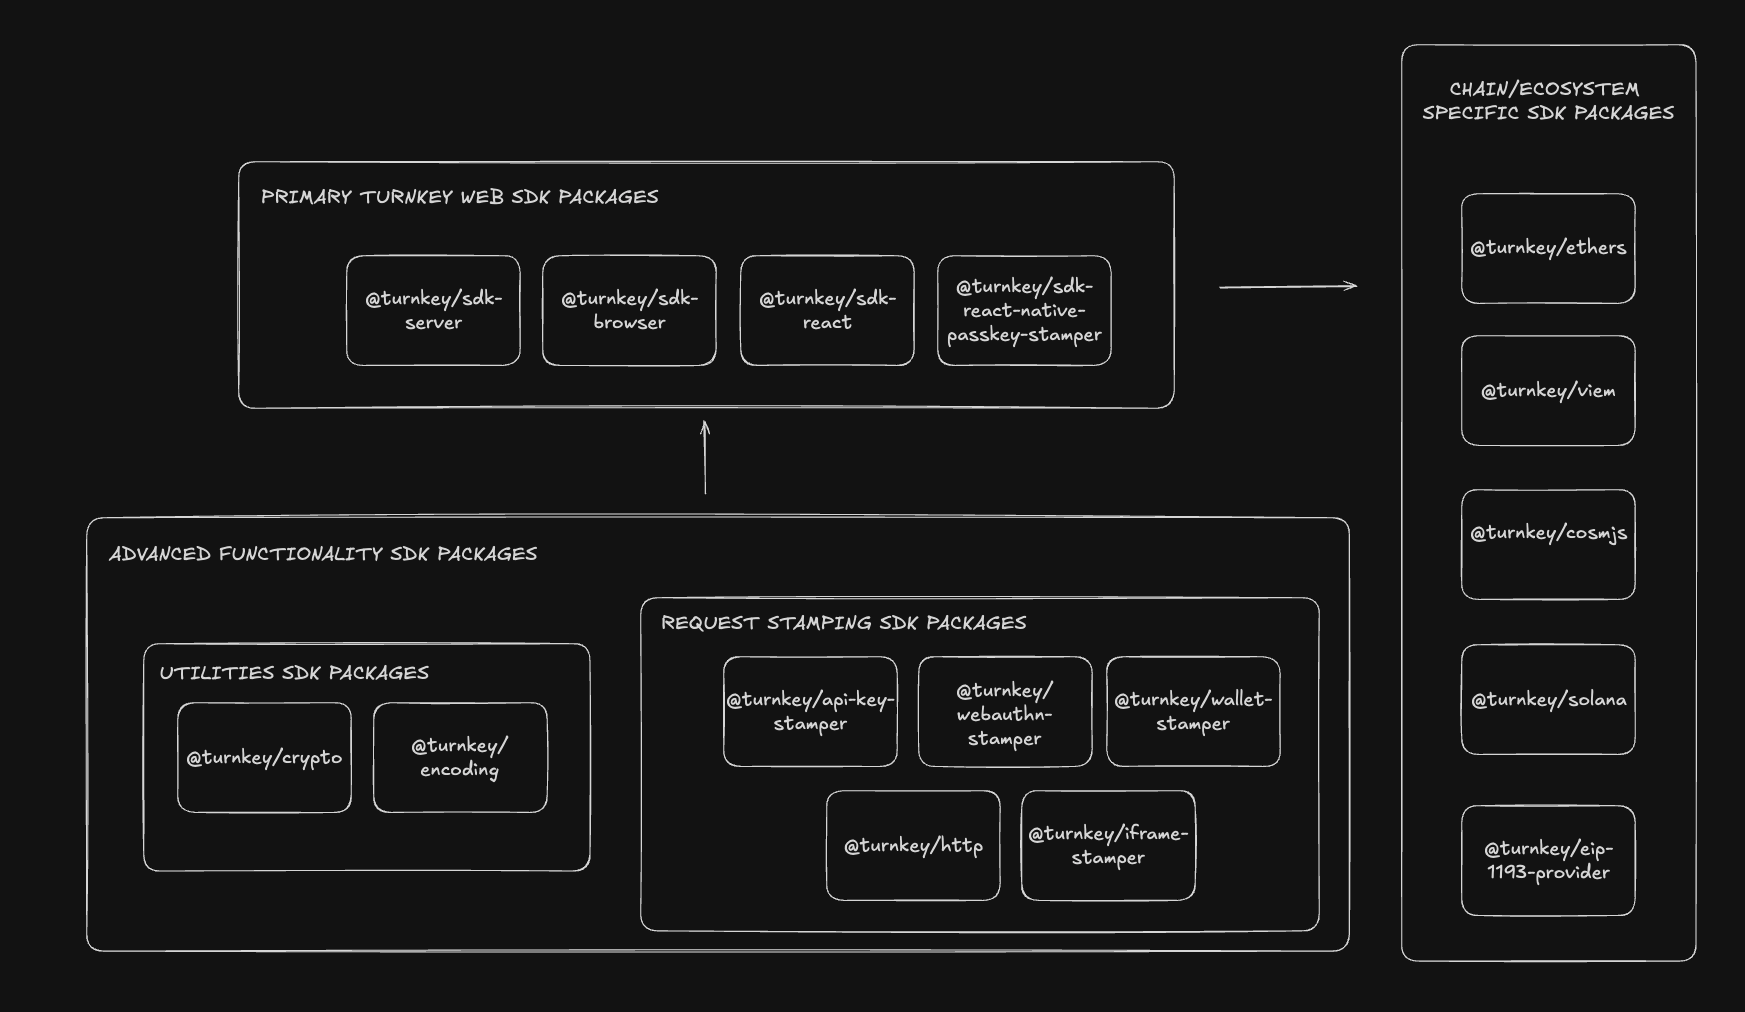
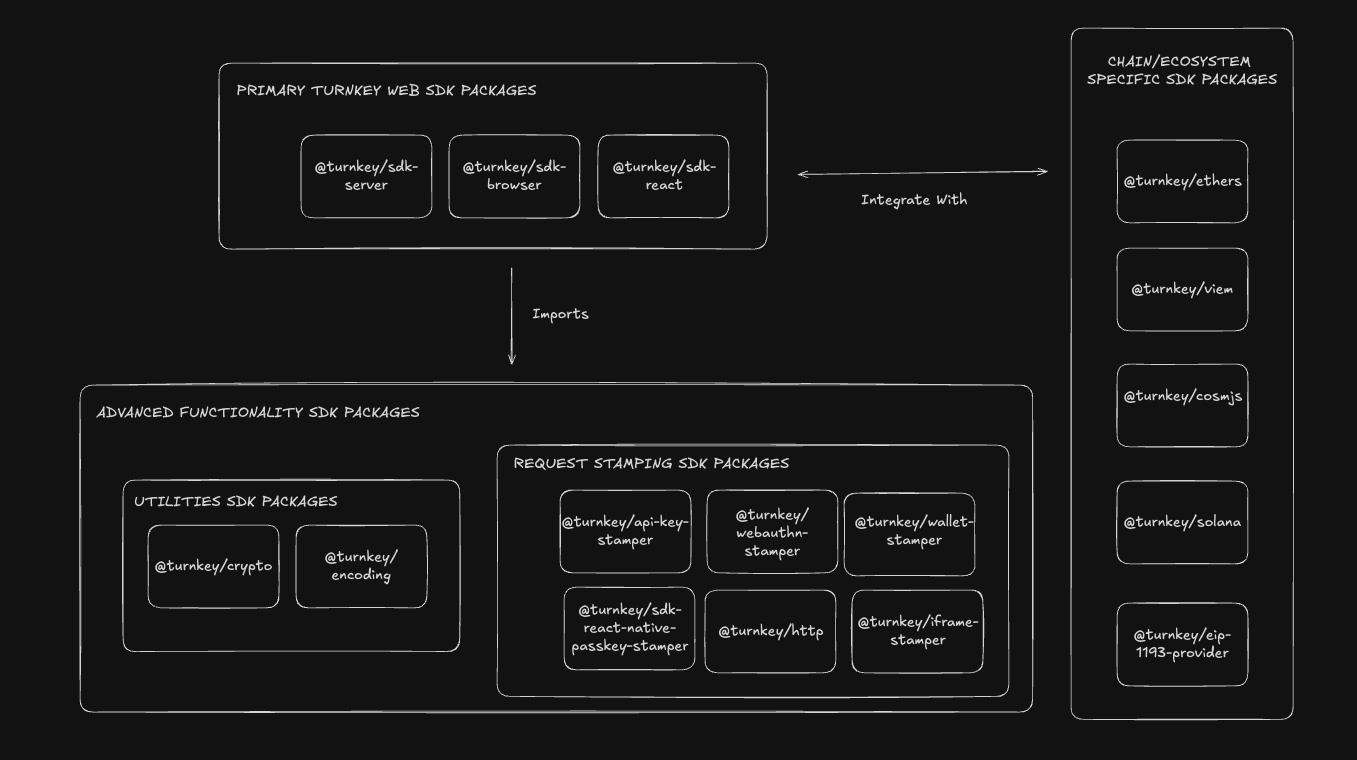
pr comments

diff --git a/README.md b/README.md
@@ -4,15 +4,18 @@
 
 ## Overview
 
-The Turnkey SDK includes functions and clients with methods that construct, authenticate and execute requests to the Turnkey API with support for different ecosystems and methods of authentication. It consists of the [Primary Turnkey Web SDK Packages](#primary-turnkey-web-sdk-packages) which expose the main functionality required to build Turnkey-powered applications in different web environments, the [Chain/Ecosystem-Specific Signing Packages](#chainecosystem-specific-signing-sdk-packages) which expose signers with support for specific ecosystems, built on top of our Web SDK, and the [Advanced Functionality SDK Packages](#advanced-functionality-sdk-packages) which exposes lower level functionality that is leveraged by our Primary Web SDK Packages for those with highly-specific implementations looking to use them.
+The Turnkey SDK includes functionality to interact with Turnkey in various contexts and ecosystems. It consists of three main NPM package groups.
+- the [Primary Turnkey Web SDK Packages](#primary-turnkey-web-sdk-packages) which expose the main functionality required to build Turnkey-powered applications in different web environments
+- the [Chain/Ecosystem-Specific Signing Packages](#chainecosystem-specific-signing-sdk-packages) which expose signers with support for specific ecosystems, built on top of our Web SDK packages
+- the [Advanced Functionality SDK Packages](#advanced-functionality-sdk-packages) which exposes lower level functionality that is leveraged by our Primary Web SDK Packages for those with highly-specific implementations looking to use them.
 
-The below diagram helps visualize the packages in our SDK organized by the functionality they expose.
+The diagram below helps visualize the packages in our SDK organized by the functionality they expose.
 
 <img src="./img/sdk-map.png" alt="homepage screenshot" width="1000px">
 
 ## Primary Turnkey Web SDK Packages
 
-The following packages expose the main functionality required to build Turnkey-powered applications. Each package exposes functions, and/or client classes with methods that manage the process of authenticating requests to the Turnkey API in the contexts of a generic browser environment, a react or react native client environment, or a server environment.
+The following packages expose the main functionality required to build Turnkey-powered applications. Each package exposes functions, and/or client classes with methods that manage the process of authenticating requests to the Turnkey API in the contexts of a generic browser environment or react client environment, or a server environment.
 
 While these higher level packages are the main points of reference to be used while designing and building Turnkey applications, they wrap other packages with lower level functionality which we also expose separately for those who would like to explore them for more specialized use cases. These packages are listed and described below in the [Advanced Functionality SDK Packages](#advanced-functionality-sdk-packages) section.
 
@@ -22,10 +25,9 @@ Our main web SDK packages are as follows:
 | -------------------------------------------------------------------------------------------------------------------- | -------------------------------------------------------------------------------------------------------------------------------------------------------------------------------------------------------------------------------------------------------------------------------------------------------------------------------------------------------------------------------------------------------------------------------------------------------------------------------------------------------------------------------------------------------------------------------------------------------------------------------------------------------------------------------------------------------------------------------------------------------------------------------------- | ----------------------------------------------------------------------------------------------------------------------------------------------------------------- | ---------------------------------------------------------------- | -------------------------------------------------------- |
 | [@turnkey/sdk-browser](/packages/sdk-browser)                                                                        | The `@turnkey/sdk-browser` package exposes functionality that lets developers build browser based applications that interact with the Turnkey API with different types of authentication. It consists of different clients that enable requests to the API to be authenticated via different auth methods like user sessions, passkeys and iFrames. It also contains methods to manage information and state related to authentication like auth bundles and sessions, retrieving user information and server signing API requests.                                                                                                                                                                                                                                                    | [![npm](https://img.shields.io/npm/v/@turnkey/http?color=%234C48FF)](https://www.npmjs.com/package/@turnkey/sdk-browser)                                          | [CHANGELOG](/packages/sdk-browser/CHANGELOG.md)                  | [Docs](https://docs.turnkey.com/sdks/javascript-browser) |
 | [@turnkey/sdk-server](https://github.com/tkhq/sdk/tree/main/packages/sdk-server)                                     | The `@turnkey/sdk-server` package exposes functionality that lets developers build server-side functionality for applications that interact with the Turnkey API with different types of authentication – allowing applications to authenticate users, manage sessions, and perform organizational operations securely and efficiently. It consists of an API Client and API Proxies that enable requests to the Turnkey API to be authenticated with the appropriate credentials. Specifically, the API Client manages requests signed by the user's authentication details, and the API proxies handle requests signed by the parent organization's authentication details. Use this package to handle server-side interactions for applications that interact with the Turnkey API. | [![npm](https://img.shields.io/npm/v/@turnkey/sdk-server?color=%234C48FF)](https://www.npmjs.com/package/@turnkey/sdk-server)                                     | [CHANGELOG](/packages/sdk-server/CHANGELOG.md)                   | [Docs](https://docs.turnkey.com/sdks/javascript-server)  |
-| [@turnkey/sdk-react](https://github.com/tkhq/sdk/tree/main/packages/sdk-react)                                       | The `@turnkey/sdk-react` package wraps the functionality from the `@turnkey/sdk-browser` package to allow developers to build react based applications that interact with the Turnkey API with different types of authentication. It allows developers to use the same clients exposed in `@turnkey/sdk-browser` that enable requests to the API to be authenticated via different auth methods like user sessions, passkey and iFrames. It also contains the same methods to manage information and state related to authentication like auth bundles and sessions, retrieving user information and server signing API requests. Use this package when you're building React-based frontend applications that interact with the Turnkey API.                                          | [![npm](https://img.shields.io/npm/v/@turnkey/sdk-react?color=%234C48FF)](https://www.npmjs.com/package/@turnkey/sdk-react)                                       | [CHANGELOG](/packages/sdk-react/CHANGELOG.md)                    | [Docs](https://docs.turnkey.com/sdks/react)              |
-| [@turnkey/sdk-react-native-passkey-stamper](https://www.npmjs.com/package/@turnkey/sdk-react-native-passkey-stamper) | Turnkey provides a React Native stamper library, meant to be used in conjunction with the Turnkey http client, to facilitate using passkeys to interact with Turnkey's API within React Native applications. See https://github.com/tkhq/sdk/tree/main/packages/react-native-passkey-stamper for more details.                                                                                                                                                                                                                                                                                                                                                                                                                                                                         | [![npm](https://img.shields.io/npm/v/@turnkey/react-native-passkey-stamper?color=%234C48FF)](https://www.npmjs.com/package/@turnkey/react-native-passkey-stamper) | [CHANGELOG](/packages/react-native-passkey-stamper/CHANGELOG.md) | [Docs](https://docs.turnkey.com/sdks/react-native)       |
+| [@turnkey/sdk-react](https://github.com/tkhq/sdk/tree/main/packages/sdk-react)                                       | The `@turnkey/sdk-react` package wraps the functionality from the `@turnkey/sdk-browser` package to allow developers to build react based applications that interact with the Turnkey API with different types of authentication. It allows developers to use the same clients exposed in `@turnkey/sdk-browser` that enable requests to the API to be authenticated via different auth methods like user sessions, passkey and iFrames. It also contains the same methods to manage information and state related to authentication like auth bundles and sessions, retrieving user information and server signing API requests. Use this package when you're building React-based frontend applications that interact with the Turnkey API.                                          | [![npm](https://img.shields.io/npm/v/@turnkey/sdk-react?color=%234C48FF)](https://www.npmjs.com/package/@turnkey/sdk-react)                                       | [CHANGELOG](/packages/sdk-react/CHANGELOG.md)                    | [Docs](https://docs.turnkey.com/sdks/react)              |                                                                                                                                                                                                                                                                                                                                                                                                                                                                 | [![npm](https://img.shields.io/npm/v/@turnkey/react-native-passkey-stamper?color=%234C48FF)](https://www.npmjs.com/package/@turnkey/react-native-passkey-stamper) | [CHANGELOG](/packages/react-native-passkey-stamper/CHANGELOG.md) | [Docs](https://docs.turnkey.com/sdks/react-native)       |
 
-The below diagram helps visualize how each package can be used to devlop the appropriate service in your Turnkey Powered Application, and how Turnkey requests would flow between those services.
+The diagram below helps visualize how each package can be used to devlop the appropriate service in your Turnkey Powered Application, and how Turnkey requests would flow between those services.
 
 <img src="./img/sdk-web-diagram.png" alt="homepage screenshot" width="1000px">
 
@@ -47,13 +49,14 @@ For those with more specialized use cases, Turnkey exposes it's lower level-libr
 
 ### Request Stamping
 
-| Package                                                   | NPM                                                                                                                                       | Description                                                             | Changelog                                            | Docs                                                            |
-| --------------------------------------------------------- | ----------------------------------------------------------------------------------------------------------------------------------------- | ----------------------------------------------------------------------- | ---------------------------------------------------- | --------------------------------------------------------------- |
-| [`@turnkey/http`](/packages/http)                         | [![npm](https://img.shields.io/npm/v/@turnkey/http?color=%234C48FF)](https://www.npmjs.com/package/@turnkey/http)                         | Lower-level, fully typed HTTP client for interacting with Turnkey API   | [CHANGELOG](/packages/http/CHANGELOG.md)             | [Docs](https://docs.turnkey.com/sdks/advanced/turnkey-client)   |
-| [`@turnkey/api-key-stamper`](/packages/api-key-stamper)   | [![npm](https://img.shields.io/npm/v/@turnkey/api-key-stamper?color=%234C48FF)](https://www.npmjs.com/package/@turnkey/api-key-stamper)   | Provide API key signatures over Turnkey requests                        | [CHANGELOG](/packages/api-key-stamper/CHANGELOG.md)  | [Docs](https://docs.turnkey.com/sdks/advanced/api-key-stamper)  |
-| [`@turnkey/iframe-stamper`](/packages/iframe-stamper)     | [![npm](https://img.shields.io/npm/v/@turnkey/iframe-stamper?color=%234C48FF)](https://www.npmjs.com/package/@turnkey/iframe-stamper)     | Provide API key signatures over Turnkey requests within iframe contexts | [CHANGELOG](/packages/iframe-stamper/CHANGELOG.md)   | [Docs](https://docs.turnkey.com/sdks/advanced/iframe-stamper)   |
-| [`@turnkey/webauthn-stamper`](/packages/webauthn-stamper) | [![npm](https://img.shields.io/npm/v/@turnkey/webauthn-stamper?color=%234C48FF)](https://www.npmjs.com/package/@turnkey/webauthn-stamper) | Provide Webauthn signatures over Turnkey requests                       | [CHANGELOG](/packages/webauthn-stamper/CHANGELOG.md) | [Docs](https://docs.turnkey.com/sdks/advanced/webauthn-stamper) |
-| [`@turnkey/wallet-stamper`](/packages/wallet-stamper)     | [![npm](https://img.shields.io/npm/v/@turnkey/wallet-stamper?color=%234C48FF)](https://www.npmjs.com/package/@turnkey/wallet-stamper)     | Provide wallet signatures over Turnkey requests                         | [CHANGELOG](/packages/wallet-stamper/CHANGELOG.md)   | [Docs](https://docs.turnkey.com/sdks/advanced/wallet-stamper)   |
+| Package | NPM | Description | Changelog | Docs |
+|---------|-----|-------------|-----------|------|
+| [`@turnkey/http`](/packages/http) | [![npm](https://img.shields.io/npm/v/@turnkey/http?color=%234C48FF)](https://www.npmjs.com/package/@turnkey/http) | Lower-level, fully typed HTTP client for interacting with Turnkey API | [CHANGELOG](/packages/http/CHANGELOG.md) | [Docs](https://docs.turnkey.com/sdks/advanced/turnkey-client) |
+| [`@turnkey/api-key-stamper`](/packages/api-key-stamper) | [![npm](https://img.shields.io/npm/v/@turnkey/api-key-stamper?color=%234C48FF)](https://www.npmjs.com/package/@turnkey/api-key-stamper) | Provide API key signatures over Turnkey requests | [CHANGELOG](/packages/api-key-stamper/CHANGELOG.md) | [Docs](https://docs.turnkey.com/sdks/advanced/api-key-stamper) |
+| [`@turnkey/iframe-stamper`](/packages/iframe-stamper) | [![npm](https://img.shields.io/npm/v/@turnkey/iframe-stamper?color=%234C48FF)](https://www.npmjs.com/package/@turnkey/iframe-stamper) | Provide API key signatures over Turnkey requests within iframe contexts | [CHANGELOG](/packages/iframe-stamper/CHANGELOG.md) | [Docs](https://docs.turnkey.com/sdks/advanced/iframe-stamper) |
+| [`@turnkey/webauthn-stamper`](/packages/webauthn-stamper) | [![npm](https://img.shields.io/npm/v/@turnkey/webauthn-stamper?color=%234C48FF)](https://www.npmjs.com/package/@turnkey/webauthn-stamper) | Provide Webauthn signatures over Turnkey requests | [CHANGELOG](/packages/webauthn-stamper/CHANGELOG.md) | [Docs](https://docs.turnkey.com/sdks/advanced/webauthn-stamper) |
+| [`@turnkey/wallet-stamper`](/packages/wallet-stamper) | [![npm](https://img.shields.io/npm/v/@turnkey/wallet-stamper?color=%234C48FF)](https://www.npmjs.com/package/@turnkey/wallet-stamper) | Provide wallet signatures over Turnkey requests | [CHANGELOG](/packages/wallet-stamper/CHANGELOG.md) | [Docs](https://docs.turnkey.com/sdks/advanced/wallet-stamper) |
+| [`@turnkey/sdk-react-native-passkey-stamper`](https://www.npmjs.com/package/@turnkey/sdk-react-native-passkey-stamper) | [![npm](https://img.shields.io/npm/v/@turnkey/react-native-passkey-stamper?color=%234C48FF)](https://www.npmjs.com/package/@turnkey/react-native-passkey-stamper) | Provide Passkey signatures over Turnkey requests in a React Native context | [CHANGELOG](/packages/react-native-passkey-stamper/CHANGELOG.md) | [Docs](https://docs.turnkey.com/sdks/react-native) |
 
 ### Utilities
 
@@ -64,7 +67,7 @@ For those with more specialized use cases, Turnkey exposes it's lower level-libr
 
 ## Code Examples
 
-### Best First Examples -- Test in Stackblitz
+### Instant examples (powered by Stackblitz)
 
 The following code examples have been loaded into Stackblitz web environments so you can test them out immediately
 
@@ -76,6 +79,8 @@ The following code examples have been loaded into Stackblitz web environments so
 | [`with-solana-passkeys`](/examples/with-solana-passkeys/)         | A NextJS app powering users to create suborgs, sign messages, and create transactions sponsored by the parent org using @turnkey/solana | [Test it out on Stackblitz!](https://stackblitz.com/edit/stackblitz-starters-h5pmnu) |
 
 ### Other Code Examples
+
+The below examples will require a local installation of `node.js`. Follow the specific instructions in the respective README's of each examples to run them!
 
 | Example                                                                | Description                                                                                                                  |
 | ---------------------------------------------------------------------- | ---------------------------------------------------------------------------------------------------------------------------- |
